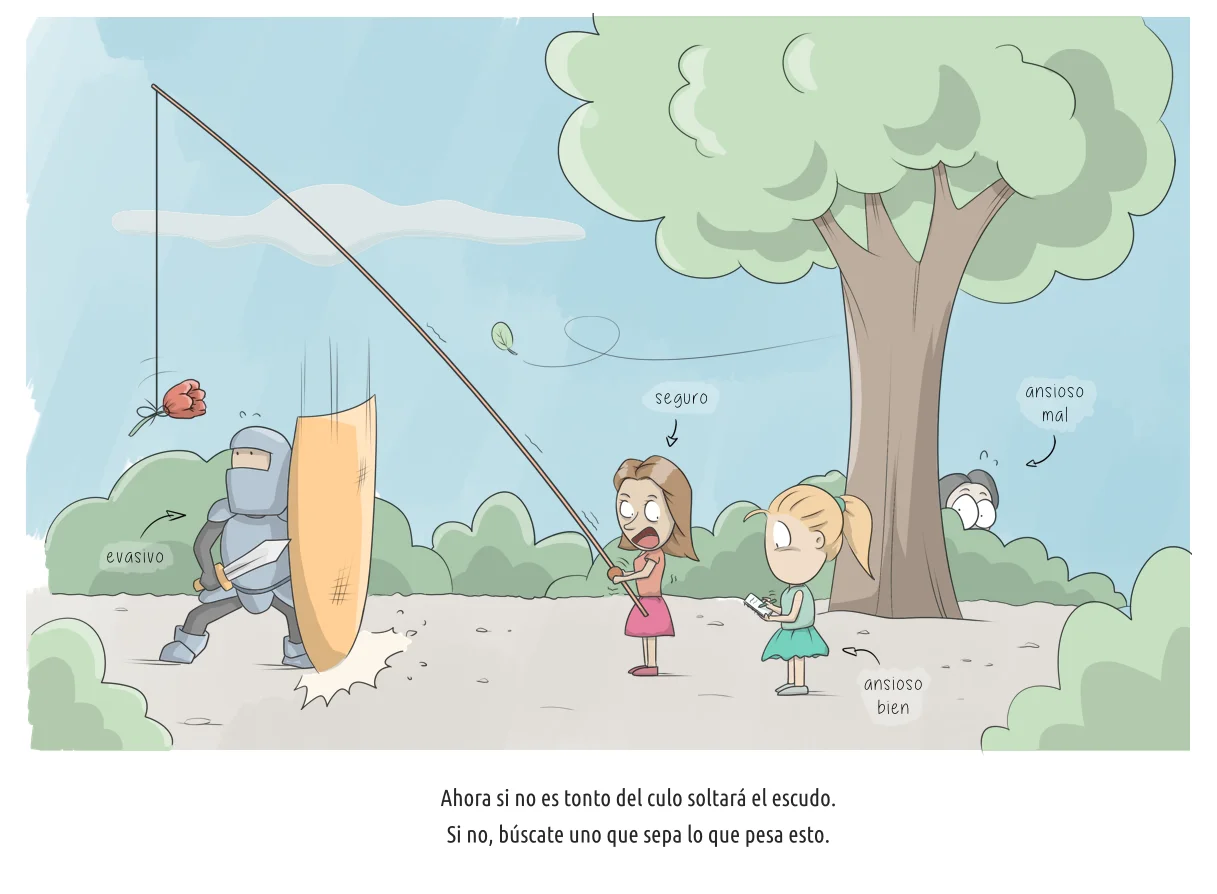
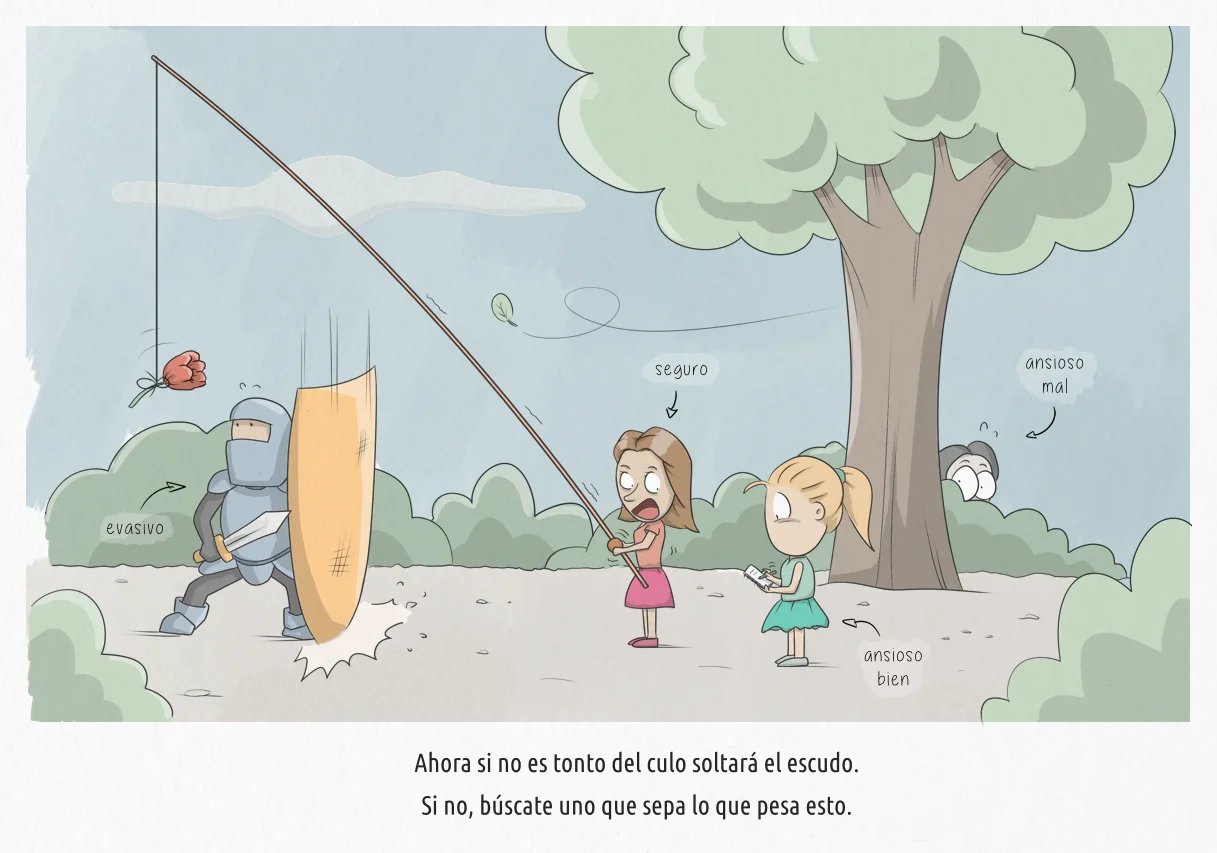
ultim retoc dibuixos

diff --git a/content/en/gallery/2022/mount-tara/index.md b/content/en/gallery/2022/mount-tara/index.md
@@ -1,0 +1,8 @@
+---
+title: Mount Tara
+date: '2022-05-22T08:00:00.000+02:00'
+categories: [ Dibuixos ]
+image: mount_tara.webp
+---
+
+![](mount_tara.webp)
